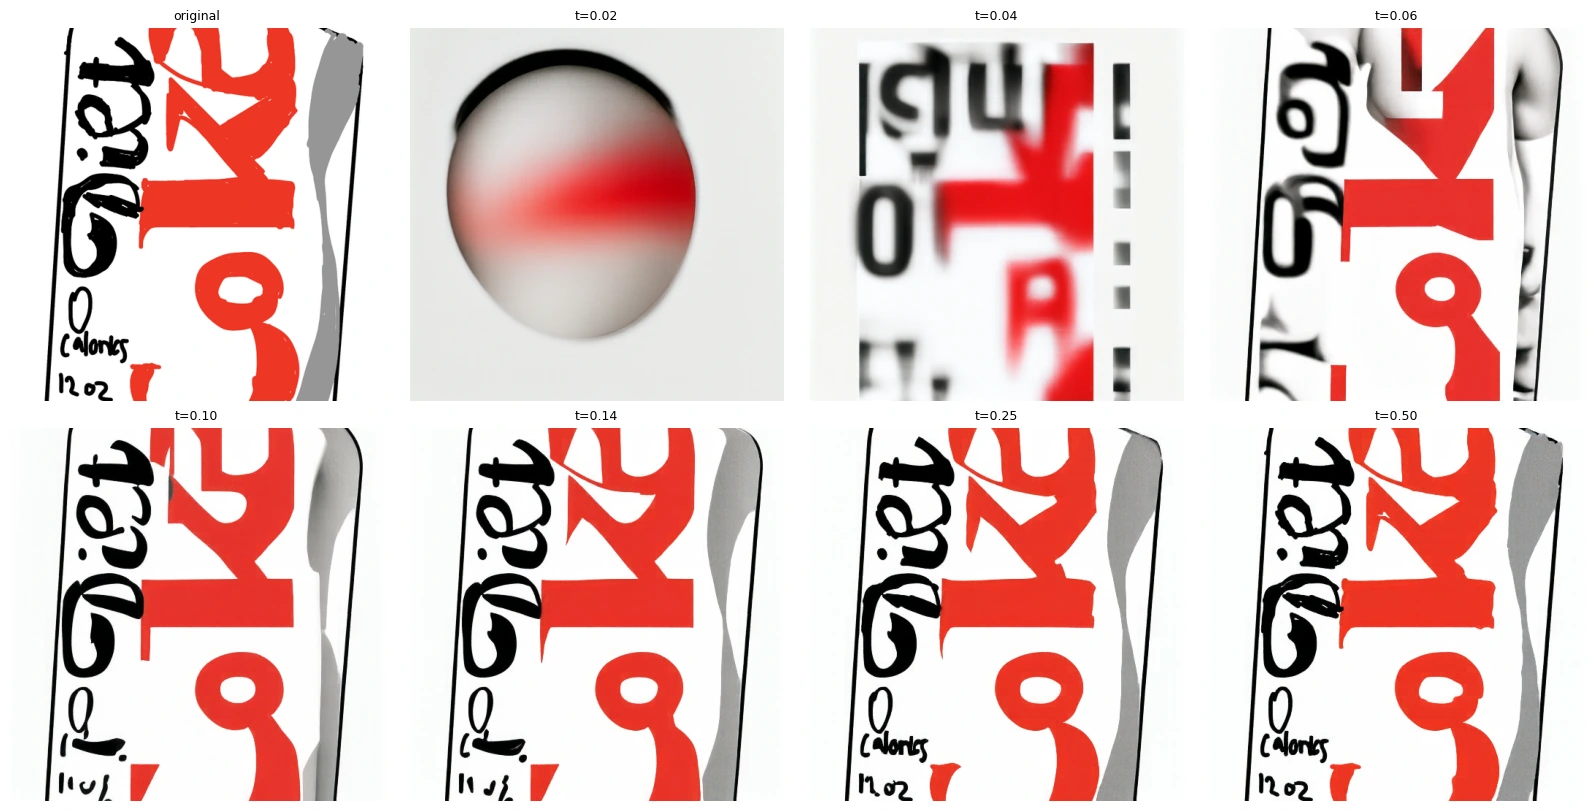
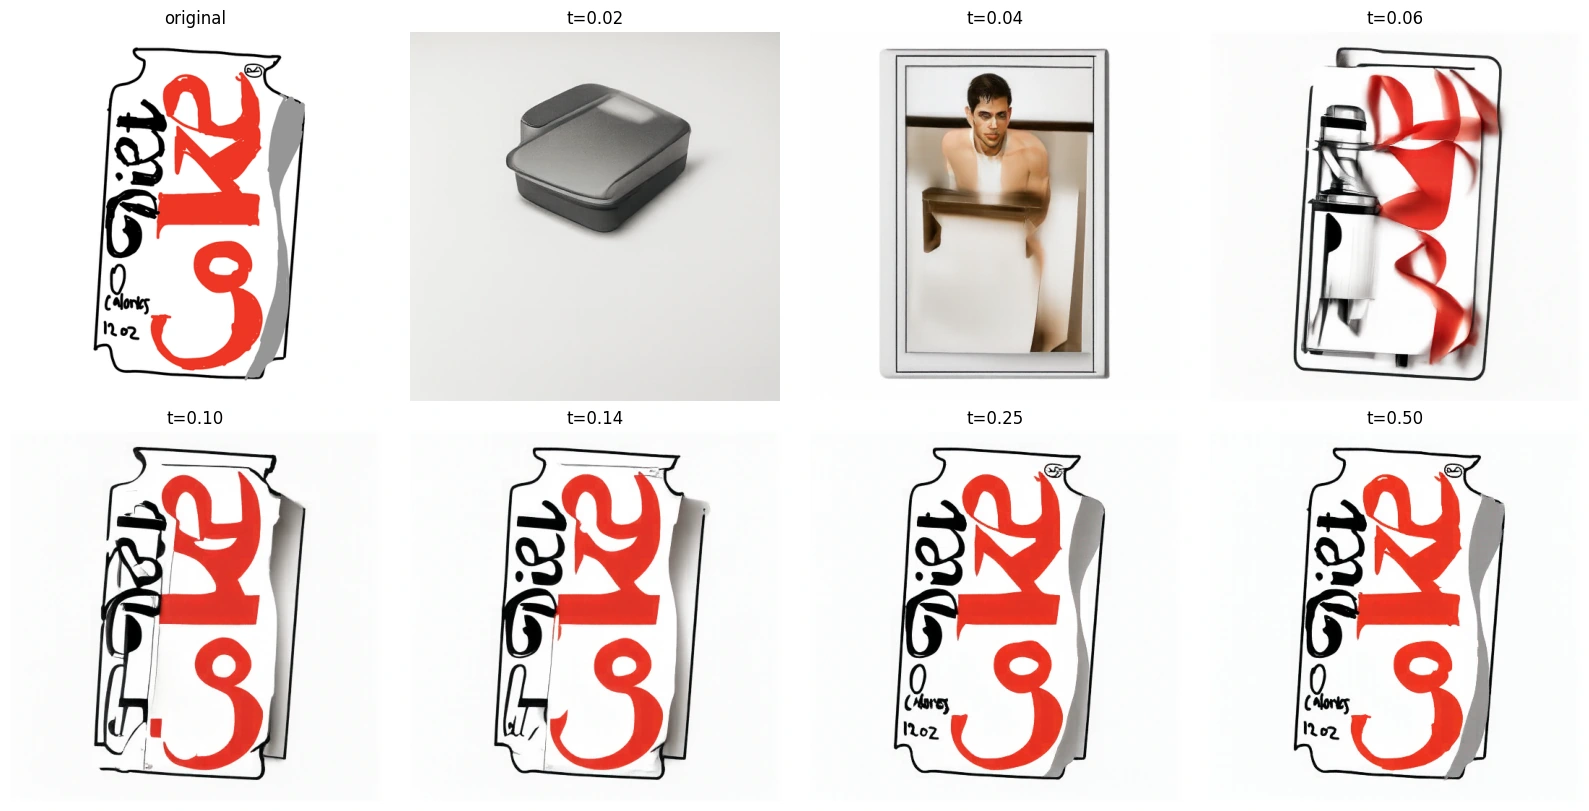
Update project 3 wording and Diet Coke editing results

diff --git a/app/data/cs180-project3.ts b/app/data/cs180-project3.ts
@@ -37,7 +37,7 @@ export const cs180Project3: Cs180Project = {
       title: '1.2 classical denoising',
       prose: [
         'i started with gaussian blur as a denoising baseline, which connects back to the filtering work from project 2. averaging nearby pixels can reduce the random variations caused by noise, but it also smooths out real edges and texture. before applying the blur, i divided the noisy image by t to restore the amplitude of the original image contribution. but this rescales the noise too, so it does not solve the denoising problem on its own.',
-        'for each input, i tried σ = 1, 2, 4, 8, and 16 and chose the result with the lowest mean squared error against the original photo. the selected values were 8, 4, and 1 for t = 0.25, 0.50, and 0.75, respectively. the tradeoff is especially clear in the first result: a strong blur removes much of the grain, but it also softens the facial features, shirt lettering, and background details. with less noise to begin with, a smaller blur is enough to preserve more of the original detail.',
+        'for each input, i tried σ = 1, 2, 4, 8, and 16 and chose the result with the lowest mean squared error against the original photo. the selected values were 8, 4, and 1 for t = 0.25, 0.50, and 0.75, respectively. the tradeoff is especially clear in the first result: a strong blur removes much of the grain, but it also greatly blurs the facial features, shirt lettering, and background details. with less noise to begin with, a smaller blur is enough to preserve more of the original detail.',
       ],
       figures: [
         figure('blur-t025', 't = 0.25 · noisy input and gaussian blur · σ = 8'),
@@ -49,7 +49,7 @@ export const cs180Project3: Cs180Project = {
       title: '1.3 one-step denoising',
       prose: [
         'next, i used the pretrained model to predict how the noisy image should change as it moves toward a clean image. the model predicts a velocity, so i multiplied that prediction by the remaining time, 1 − t, and added it to the input. this gives a clean-image estimate from just one model prediction. i used the prompt “a high quality photo” for all three inputs so that the comparison would focus on the amount of noise rather than a change in the text condition.',
-        'the model recovers much more recognizable structure than gaussian blur does, especially at t = 0.25. it can produce a face and a table even when the input is heavily corrupted, but recovering a plausible photo is not quite the same as recovering the exact original. some details of the drink and shirt get simplified or changed. the inputs at larger t values retain more information, so their reconstructions stay closer to the original photo.',
+        'the model recovers much more recognizable structure than gaussian blur does, especially when comparing the two methods at t = 0.25. it can produce a face and a table even when the input is heavily corrupted, but recovering a plausible photo is not quite the same as recovering the exact original. some details of the drink and shirt get simplified or changed. the inputs at larger t values retain more information, so their reconstructions stay closer to the original photo.',
       ],
       equations: ['x̂(1) = x(t) + (1 − t)·v(x(t), t, c)'],
       figures: [
@@ -107,7 +107,7 @@ export const cs180Project3: Cs180Project = {
     {
       title: '3.1 image-to-image editing',
       prose: [
-        'for image-to-image editing, i returned to the same idea of mixing an input image with noise and then sampling back toward t = 1. the difference is that i varied the starting time to control how much of the input remained before denoising. i tried this on the campanile, the photo of rohan, and a photo of torii gates in japan, using “a high quality photo” for all three. each sweep uses starting times 0.02, 0.04, 0.06, 0.10, 0.14, 0.25, and 0.50.',
+        'for image-to-image editing, i returned to the same idea of mixing an input image with noise and then sampling back toward t = 1. the difference is that i varied the starting time to control how much of the input remained before denoising. i tried this on the campanile, the photo of rohan, and a photo of me at the torii gates in kyoto, japan, using “a high quality photo” as the prompt for all three. each sweep uses starting times 0.02, 0.04, 0.06, 0.10, 0.14, 0.25, and 0.50.',
         'at the smaller starting times, there is so little image information left that the result can become a different person or even an unrelated object. the campanile still tends to leave a tall shape against the sky, while the personal photos change more dramatically. at t = 0.25 and 0.50, the original scenes are much easier to recognize. this makes the starting time a useful control over the edit: preserving more of the input also gives the model less room to reinterpret it.',
       ],
       figures: [
@@ -120,7 +120,7 @@ export const cs180Project3: Cs180Project = {
       title: '3.1 editing hand-drawn and web images',
       prose: [
         'i also tried the same editing procedure on images that were not photographs: an otter illustration from the web, a diet coke drawing, and a drawing of the “Don’t Be Dumb” emoji from A$AP Rocky merch i bought at his concert. i used the same generic photo prompt and the same seven starting times as above. this lets me see what the model does when the input’s colors and shapes are recognizable, but its style is quite different from the photographs the prompt asks for.',
-        'at very low starting times, the connection to the input can disappear almost completely. the otter illustration sometimes becomes a portrait, while the diet coke drawing becomes a smooth rounded object at t = 0.02. as more of the input is preserved, the lettering on the can and the face of the merch emoji return. the model does not automatically turn every drawing into a realistic photo; in several of these results, it keeps much of the drawing’s original style instead.',
+        'at very low starting times, the connection to the input can disappear almost completely. the otter illustration sometimes becomes a portrait, while the diet coke drawing becomes a small gray case at t = 0.02. as more of the input is preserved, the lettering on the can and the face of the merch emoji return. the model does not automatically turn every drawing into a realistic photo; in several of these results, it keeps much of the drawing’s original style instead.',
       ],
       figures: [
         { ...figure('edit-web-otter', 'web otter illustration · original and seven starting times · prompt: “a high quality photo”'), displayWidth: 720 },
